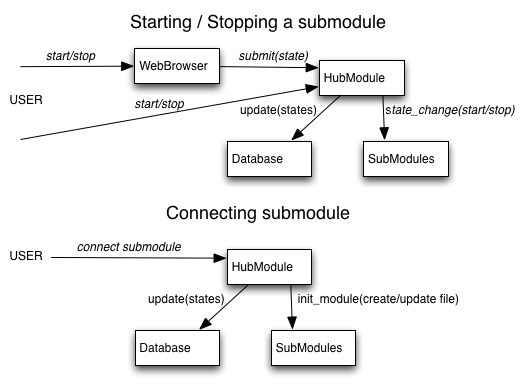
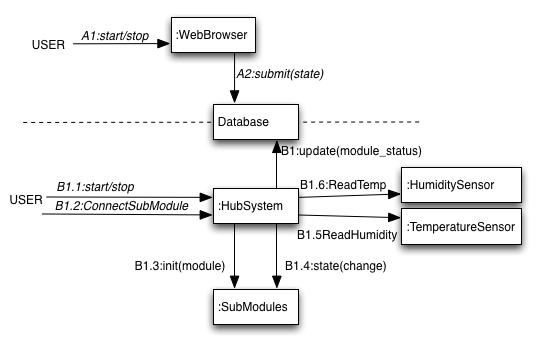
statemachine and communication_diagram updated

Changed region(s): [[0.0, 0.0287, 0.9752, 0.9742], [0.0, 0.2292, 0.0914, 0.2865]]

diff --git a/content/launch_phase.tex b/content/launch_phase.tex
@@ -130,10 +130,10 @@
 									(uptime, production etc.). If the module is new for the system, it creates it in the database and gives it an unique id.
 				\\\textbf{Warning: }Is sent if the system tries to send a submodule in standby- , start- or stop mode, but after a while it has not changed (timeout). 
 							    After the timeout state, the system returns to run state. The system might also try to restart the device after a while.
-				
+			\newpage
 			\begin{figure}[h!]		%Remember to put the h!, to not fuck the sections.
 				\begin{centering}
-					 \includegraphics[width=0.5\textwidth]{images/statemachine.JPG}
+					 \includegraphics[width=0.8\textwidth]{images/statemachine.png}
 		 			\caption{Web user interface}
 			 	\end{centering}
 			\end{figure}
@@ -254,32 +254,16 @@
 		When the user logs onto the system he gets access to start and stop devices, read the log files, change settings such as, warning mail address,
 		password e.g.
 	\subsubsection{Function Analysis}
-		
-		\begin{table}[h!]
-			\begin{tabular}{| l | c | c |}
-				\hline
-	Title																				& Complexity 	& Type	\\ \hline
-	A user should be able to connect a new module										& ~				& Update 				\\ \hline
-	A user should be able to disconnect a module										& ~				& Update	 			\\ \hline
-	A user should be able to start a module on the system and on the web page			& ~				& Update 				\\ \hline
-	A user should be able to stop a module on the system and on the web page			& ~				& Update 				\\ \hline
-	A user should be able to start the system on the system								& ~				& Update 				\\ \hline
-	A user should be able to see the production of a module on the web page				& ~				& Read/Calculating 		\\ \hline
-	A user should be able to see the consumption of a module on the web page			& ~				& Read/Calculating 		\\ \hline
-	A user should be able to see the temperature										& ~				& Read 					\\ \hline
-	A user should be able to see the humidity											& ~				& Read			 		\\ \hline
-	A user should be able to see the log of a module									& ~				& Read			 		\\ \hline
-	A user should be able to see the energy level on stoage modules						& ~				& Read/Calculating 		\\ \hline
-	The system should be able to initialize a module									& ~				& Update/Calculating 	\\ \hline
-	The system should be able to shutdown if the temperature gets too low				& ~				& Read/Calculating 		\\ \hline
-	The system should be able to set a module to standby								& ~				& Update 				\\ \hline
-	The system should be able to create a log file for new modules						& ~				& Update 				\\ \hline
-	The system should be able to electrical disconnect modules							& ~				& Update 				\\ \hline
-	The system should be able to stop modules											& ~				& Update	 			\\ \hline
-	The system should be able to start modules											& ~				& Update		 		\\ \hline
-				\end{tabular}
-			\end{table}
-
+	 \textbf{THIS}
+		\begin{itemize}
+			\item Recognise the direction of the device ( input, output, both ).
+			\item Start / Stop slave devices from web interface or physical module ( Control over the connected modules ).
+			\item Routes energy from the input to output ports.
+			\item Control power status of slave modules.
+			\item Log device data ( uptime of the port and power amount since connected ).
+			\item More to add here...
+		\end{itemize}
+	\newpage
 	\subsubsection{System Dynamics}
 			Put in example from eudp: %eudp.dk/index.php/Sequence_Diagrams
 			 \textbf{JESUS / DENNES}
@@ -288,7 +272,7 @@
 			\\Small diagram of how to initialize, start, stop, pause submodules.
 			\begin{figure}[h!]		%Remember to put the h!, to not fuck the sections.
 			\begin{centering}
-				 \includegraphics[width=0.6\textwidth]{images/communication_diagram.png}
+				 \includegraphics[width=0.7\textwidth]{images/communication_diagram.png}
 				\caption{...}
 		 	\end{centering}
 		\end{figure}		
